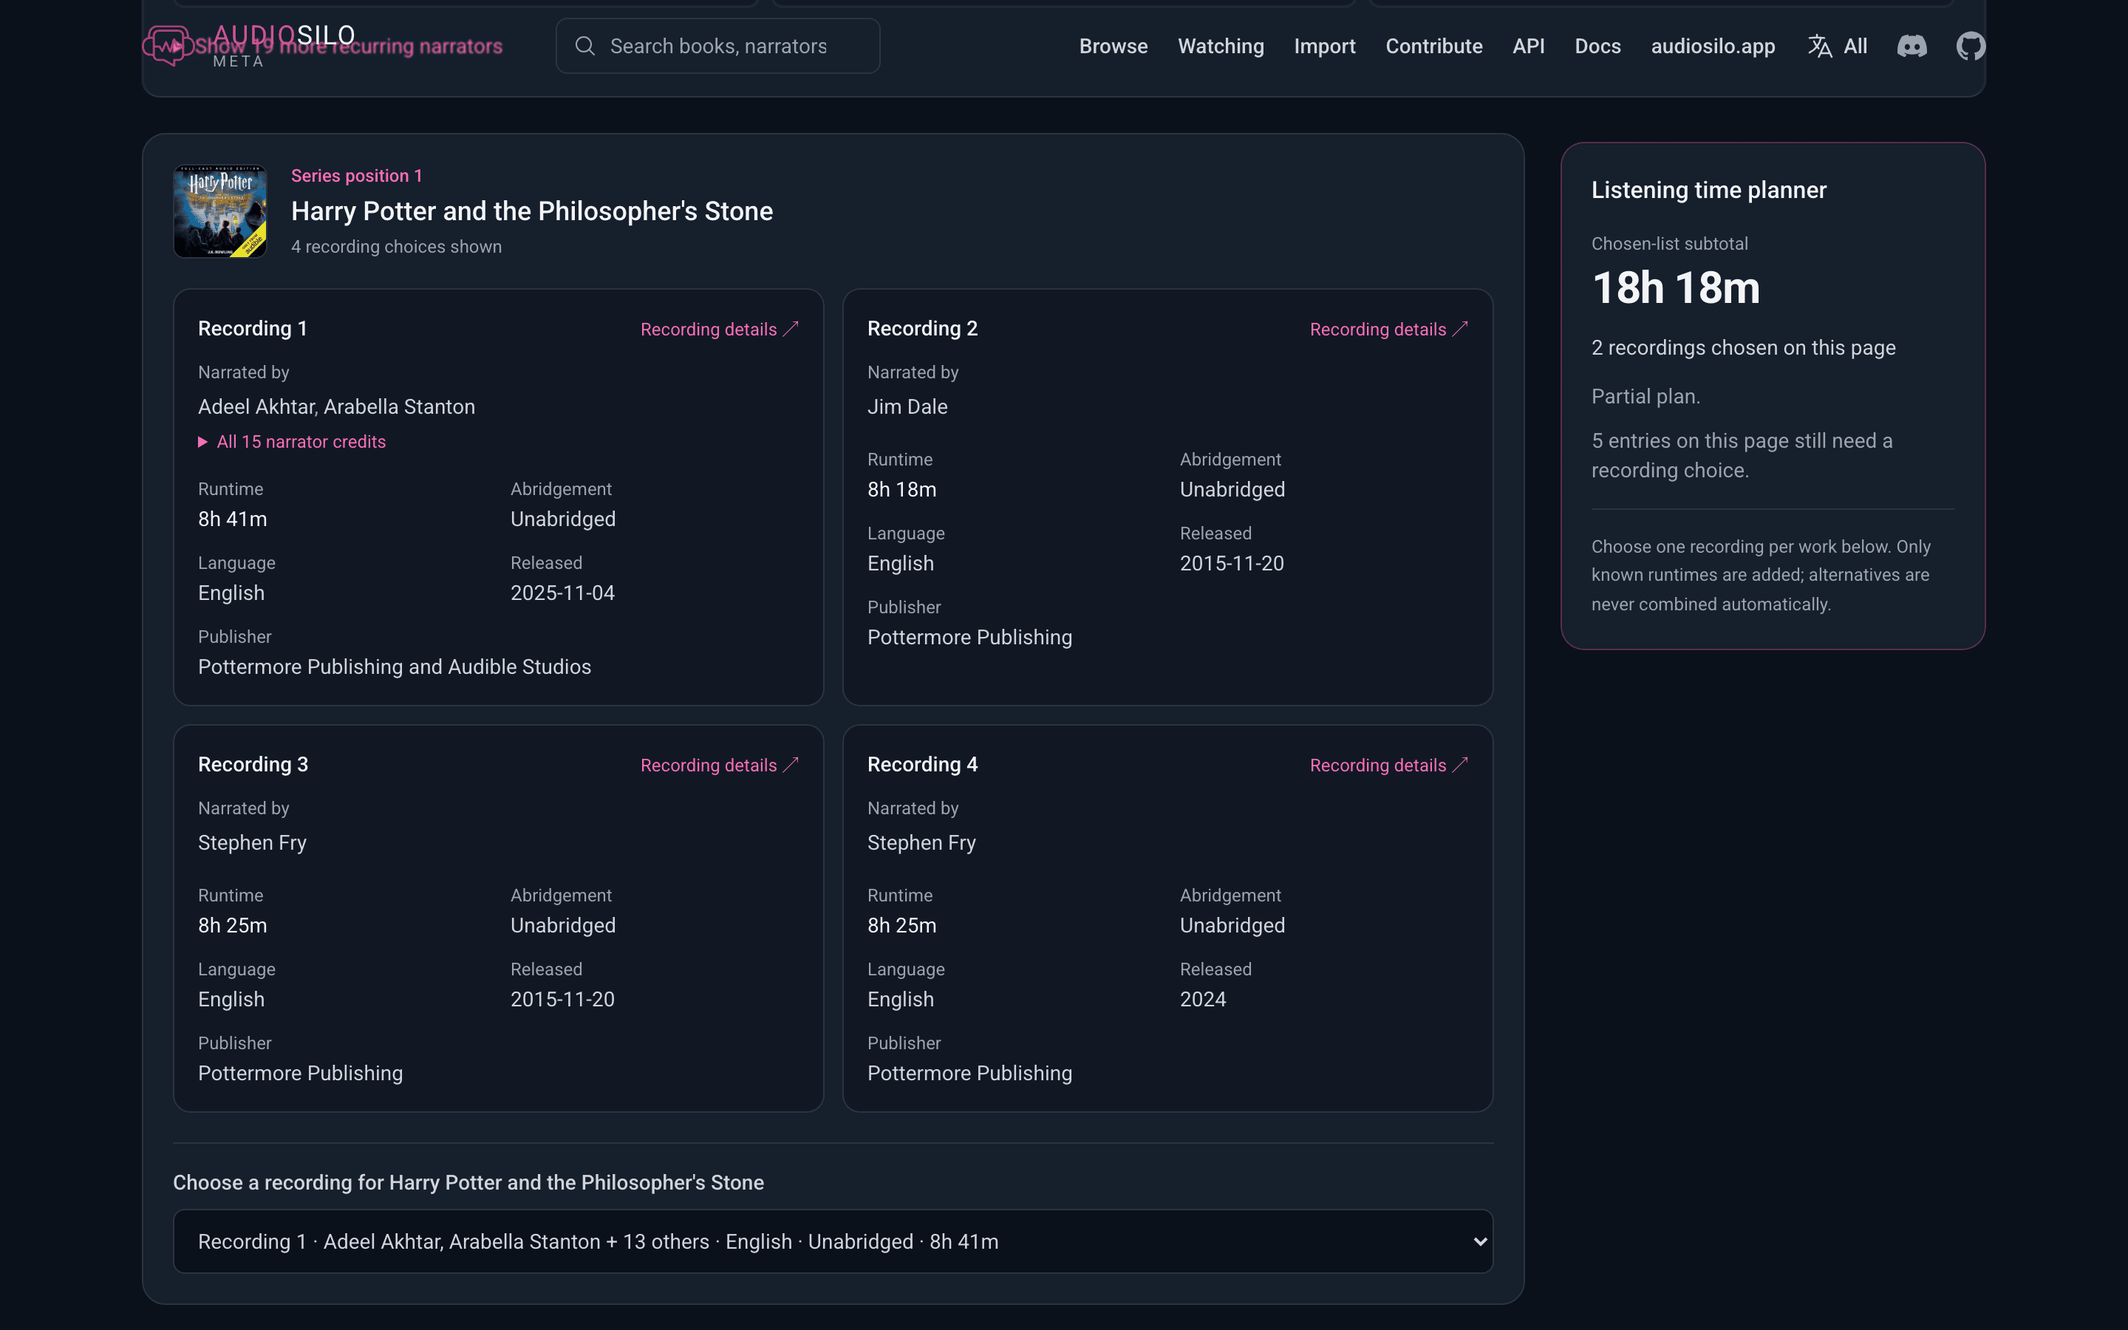
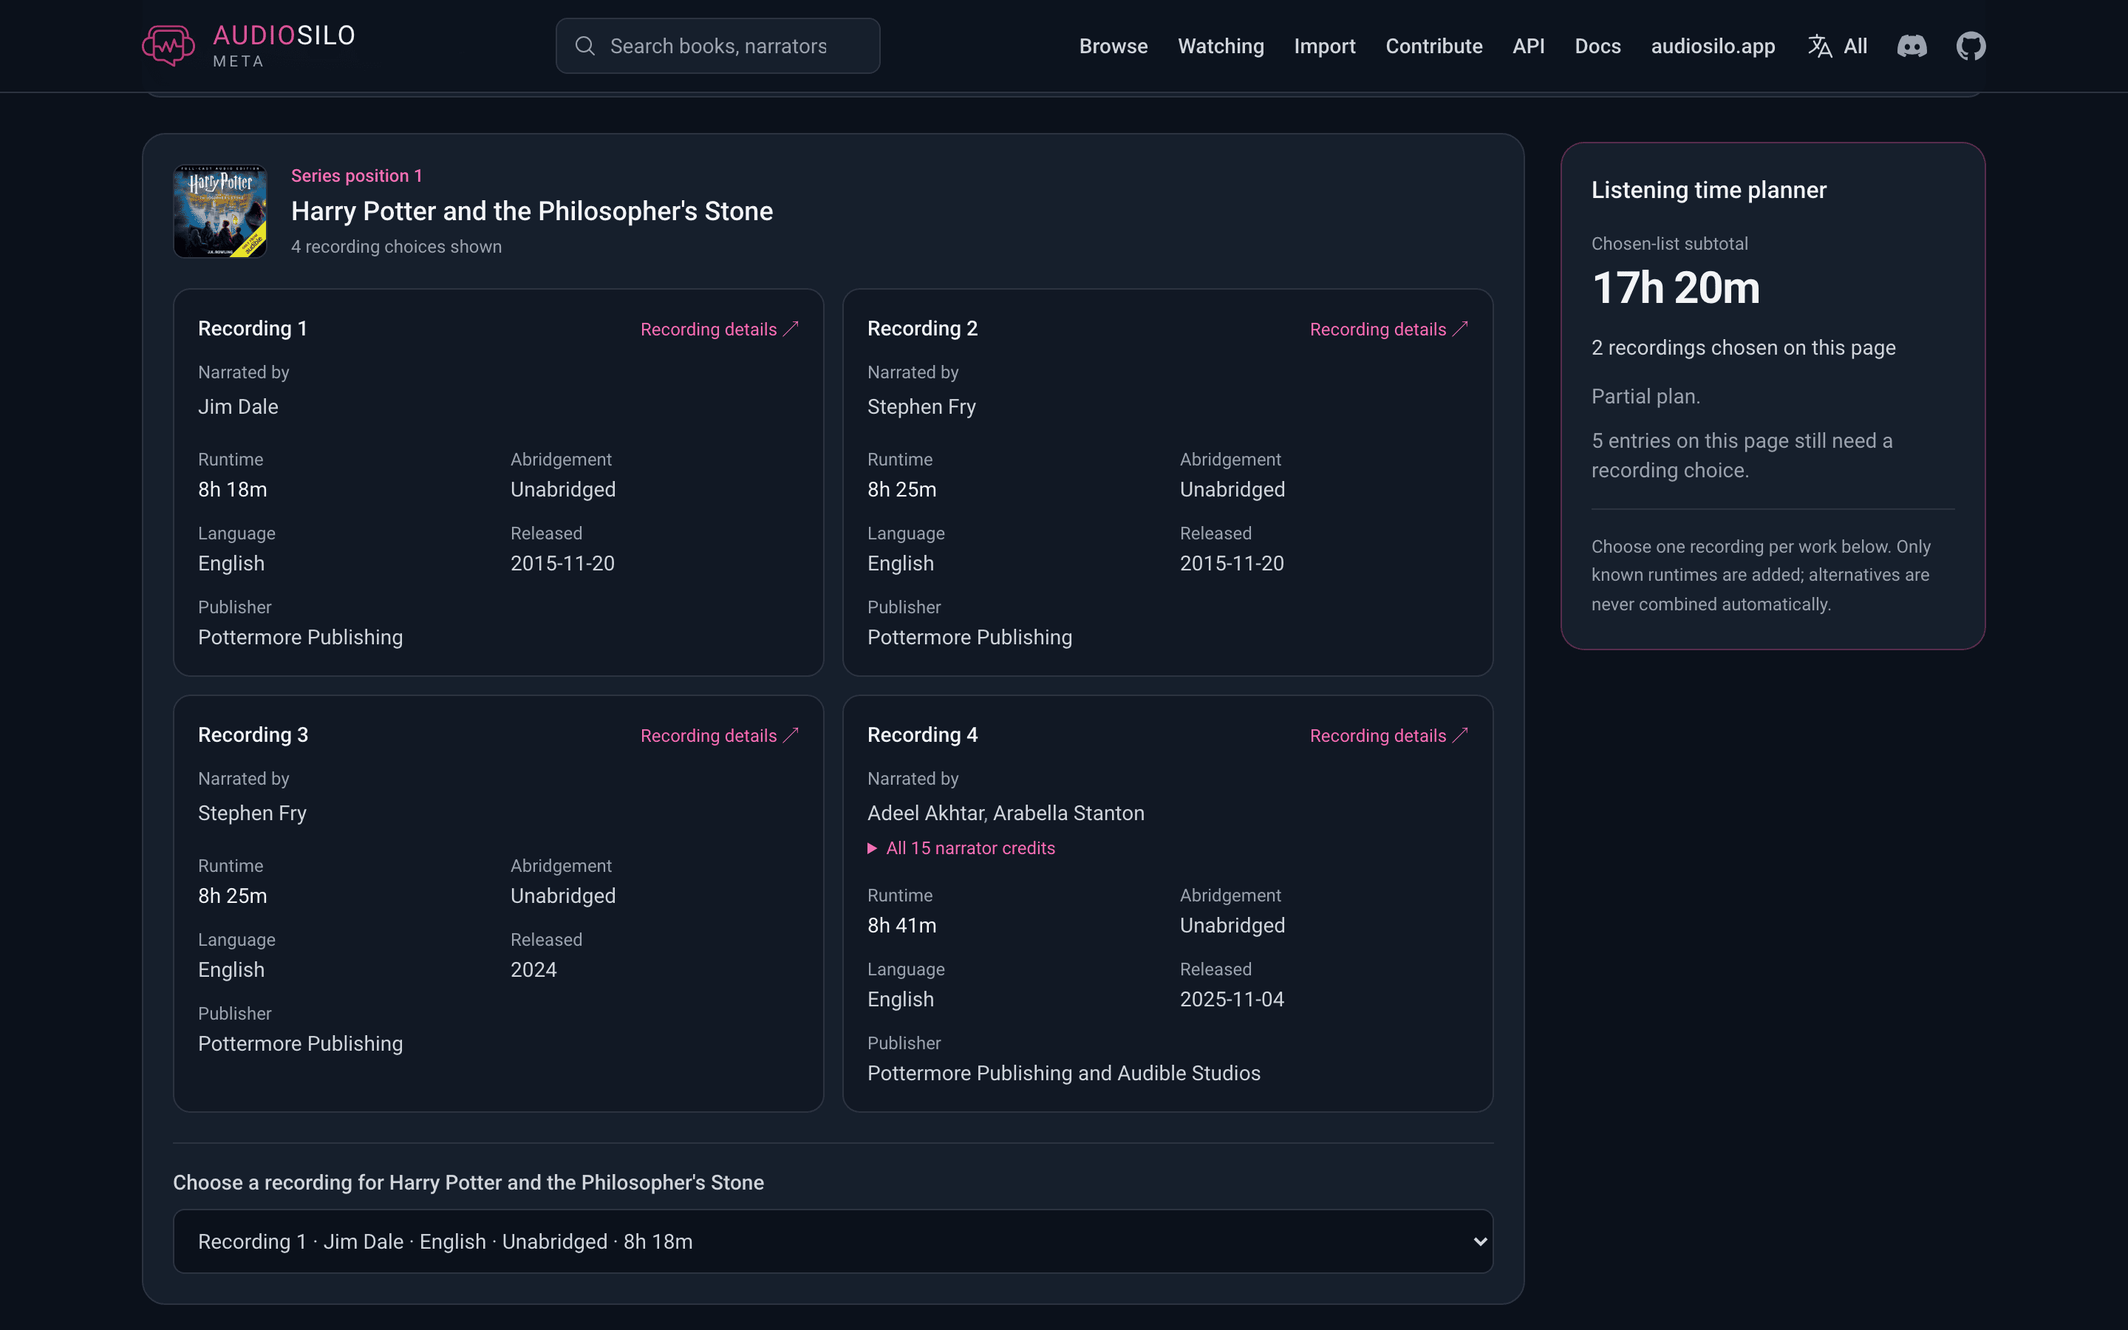
Document the dropped patch delta and the catalogue follow-ups (#330)
Pairs with KodeStar/audiosilo-meta#3108 and the catalogue follow-ups PR.

## The dropped patch delta (meta#3108)

- `docs-developers/meta/overview.md`: the asset contract lists the three
assets. `meta.sqlite.sha256` now verifies an artifact already on disk
(the cache volume), and a note says releases up to
`data-v2026.11.19-706bdbc-aa8c249` carried a zstd `--patch-from` delta
that nothing reads now. The `pkg/release` note no longer mentions a
delta path.
- `docs-developers/meta/api.md`, Serving and refresh: a new release is
adopted from the `--cache` directory when it holds it (the boot
section's digest rule, which it now links to), else downloaded in full
and verified against `meta.sqlite.gz.sha256`. "A rejected patch never
swaps" becomes "A rejected download never swaps". No other page
mentioned the delta.

## The catalogue follow-ups

User Guide, `docs-users/community/meta-site.md`:

- Person pages list in title order (within each series and language
group for narrated recordings). Later pages show only the narrated
recordings and link back to the first page for written and translated
books.
- The listening guide picks and orders recordings by narrator
continuity, then earliest release, with undated recordings after dated
ones in a tie. "Narrator continuity" is named as the page-only section
it is.
- Watching: **Not interested** (introduced beside **I have this** in the
steps) and **Show again** are documented (they were missing), the marks
[…]

diff --git a/docs-developers/meta/api.md b/docs-developers/meta/api.md
@@ -718,9 +718,14 @@ character value) is skipped rather than guessed at. So is a dateless work with n
 `added_at`.
 
 Items are sorted by `updated` **descending**: the release date, or the added-at date
-for a dateless work. Ties are broken deterministically by series name, the numeric
-start of the position string, the position string, and finally the item id. The
-list is capped at **200** items (`maxWatchFeedItems`).
+for a dateless work. Ties are broken deterministically by series name, the series
+slug, the numeric start of the position string, the position string, and finally
+the item id. The slug keeps the tied items of two watched series that share a
+name apart, each series' together and in order, rather than interleaving their
+members by position. The list is capped at **200** items (`maxWatchFeedItems`).
+The site's Watching page orders its own same-date ties on the same keys in the
+same place: series name, series slug, then position (`byNameThenPosition` in
+`site/src/lib/watch-flat.ts`, which compares names in locale order).
 
 ### Item identity
 
@@ -916,7 +921,9 @@ default rather than erroring.
 The window applies to `authored` and `narrated` **independently**. `authored_total`
 and `narrated_total` are the unpaged counts of each. A client must page against
 those totals rather than assume the arrays are complete, since a prolific narrator
-will exceed one page.
+will exceed one page. Every list is ordered by work title without regard to case
+(`COLLATE NOCASE`, so "apple" sorts before "Banana"), then by work id, and a
+recording list then by recording id.
 
 `translated` and `translated_total` (artifact `schema_version` 9) list the
 recordings that credit the person as their own **translator**. That is a LibriVox
@@ -961,6 +968,11 @@ omitted on an older artifact.
 
 `works` is sorted by the numeric start of each `position` string, so `"1-3.5"` sorts
 by 1, then by the raw position string and work id to break ties deterministically.
+This is the one series member order (`seriesMemberOrderSQL` in
+`pkg/query/queries.go`): the listening guide pages through it, the coverage gap
+list's `present` positions come back in it, and the watch feed's cross-series
+sort keys on the same position start.
+
 Paging here is **opt-in**. With no `?limit=`, the whole member list is
 returned and the echoed `limit` is `0`, because the player's series rail depends on
 getting the complete list. To window it, pass `?limit=` (clamped to a maximum of
@@ -989,9 +1001,21 @@ as on `series/{id}`, and `works_total` is the unpaged member count.
 Each `RecordingSummary` has `id` and `narrators[]`; `language`, `abridgement`,
 `runtime_min`, `release_date`, `publisher` and `chapter_count` are omitted when
 unstated or zero. Summaries contain no identifiers or chapter bodies. A work
-gets at most **five** alternatives, deterministically by recording id;
-`recordings_total` counts all its recordings and `recordings_limit` is `5`.
-An empty array means no recording is catalogued, not that none exists.
+gets at most **five** alternatives; `recordings_total` counts all its recordings
+and `recordings_limit` is `5`. An empty array means no recording is catalogued,
+not that none exists.
+
+The five are chosen, and listed, in one deterministic order
+(`listeningCandidatesSQL` in `pkg/query/catalogue.go`, also stated in
+`openapi.json`):
+
+1. **Narrator continuity**, most first: the most *other* volumes of this series
+   that any one of the recording's narrators also narrates, counted over the
+   whole series rather than the visible page. A narrator's credits outside the
+   series, and a second recording of the same work, do not count.
+2. **Release date**, earliest first. A recording that states none comes after
+   every dated one.
+3. **Recording id**, which makes the order total.
 
 ## `/api/v1/people/{id}/recordings?limit=&offset=&series=&lang=`
 
@@ -1007,7 +1031,8 @@ repeated credit on the same recording:
 
 `work` is a workCard and `recording` is the RecordingSummary above. `series[]`
 contains the work's memberships, primary orders before variants, and is empty
-for a standalone work. Rows sort by work title, work id and recording id.
+for a standalone work. Rows sort by work title without regard to case
+(`COLLATE NOCASE`), then work id and recording id.
 `total` counts matching recording credits before paging. A known person with
 no matching credits gets an empty array; an unknown person gets **404**
 `person not found`. Authorship and translation credits are on `people/{id}`.
@@ -1553,7 +1578,7 @@ chapter pages are Go-rendered only, with no payload:
 | `/works/{id}` | Every recording, comparison links to `#recording-{rid}`, and detailed cards |
 | `/works/{id}/characters`, `/works/{id}/recap` | Existing community guides. Spoiler bodies and aliases stay in the DOM inside closed native `details`, marked `data-nosnippet`; work tab panels stay mounted with `hidden` semantics |
 | `/series/{id}` | Up to 50 ordered works and their bounded listening-guide alternatives |
-| `/people/{id}` | Authorship/translation lists and 50 narrated recording credits per page |
+| `/people/{id}` | Page one: the written, narrated and translated lists and the first 50 narrated recording credits. A later page (`?page=N`): the next 50 recording credits only, with a link back to page one for those lists |
 | `/works/{id}/recordings/{rid}/chapters` | Up to 100 chapter titles, starts and durations for a validated recording |
 
 **Directory filters.** The five browse directories accept `q` (search within that
@@ -1606,6 +1631,11 @@ site URL, the document (which shard, or the index and whether it lists the stati
 sitemap) and the build revision. These are cache keys, not content-change dates;
 build stamping and per-entity revision tracking are
 [follow-up work](https://github.com/KodeStar/audiosilo-meta/issues/2927).
+`TestRendererVersionsTrackTheGoldens` guards both bumps: it pins each of
+`htmlRendererVersion` and `sitemapRendererVersion`, with a digest of its goldens
+(`internal/serve/testdata/golden/`), so a golden change fails until its pin is
+updated, and the failure names the constant to bump. A change to the test
+fixture alone updates the digest and keeps the version.
 
 **Sitemaps.** `/sitemap-index.xml` lists the static sitemap, when present, and the
 generated `/sitemaps/{family}-{shard}.xml` shards (up to 50,000 URLs each, in
@@ -1850,15 +1880,15 @@ webhook keep it current:
   [the overview](overview.md#release-artifacts)). It fetches conditionally
   (`If-None-Match` and 304) through `pkg/release`, the fetcher that mirror-mode
   AudioSilo servers use too.
-- **On a new release it first tries a `--patch-from` binary delta** against the
-  currently loaded artifact (zstd, `--long=31` window). It verifies the
-  reconstructed file byte for byte against `meta.sqlite.sha256` before installing
-  it. Whenever a patch is unavailable or fails, it falls back unconditionally to a
-  full `meta.sqlite.gz` download, verified against `meta.sqlite.gz.sha256`. The
-  first refresh after boot is always full.
+- **On a new release it first looks in the `--cache` directory**, adopting a
+  cached copy by the same digest rule as at [boot](#boot-and-degraded-start).
+  Otherwise it downloads `meta.sqlite.gz` in full and verifies it against
+  `meta.sqlite.gz.sha256`. It never fetches the zstd
+  delta that older releases carried (see
+  [the overview](overview.md#release-artifacts)).
 - **Either way it hot-swaps the pointer.** In-flight requests finish on the old
-  handle, which is closed after a grace delay. A rejected patch never swaps. A poll
-  failure only logs and retries, and never crashes the process.
+  handle, which is closed after a grace delay. A rejected download never swaps. A
+  poll failure only logs and retries, and never crashes the process.
 
 The startup refresh means a recreated production container reaches the newest
 release within seconds, rather than at the first `--interval` tick. Superseded

diff --git a/docs-users/community/meta-site.md b/docs-users/community/meta-site.md
@@ -41,7 +41,8 @@ changing either starts again at page one.
 - A **book page** lists every recording of the book, with narrators, length,
   release date, publisher, ASINs and ISBNs, and chapters.
 - A **series page** lists the books in reading order.
-- A **person page** lists everything an author or narrator is credited on.
+- A **person page** lists everything an author or narrator is credited on. Each
+  list, and each group of narrated recordings, is in alphabetical order by title.
 
 ![A book page with its recordings](/img/screenshots/meta/work.png)
 
@@ -69,19 +70,27 @@ five catalogued recordings per book; when there are more, **Compare every
 recording** opens the book page. **No recording catalogued** means the catalogue
 holds no recording of that book yet.
 
+The guide picks and orders those recordings by narrator first: a recording whose
+narrator reads the most other books across the whole series comes first. Among
+recordings level on that, the earliest released comes first, and one with no
+release date comes after the dated ones.
+
 Pick a recording for each book and the **Listening time planner** adds up their
 runtimes. The subtotal covers only the current page. The plan stays partial
 unless the whole series fits on that one page and every book on it has a pick
 with a known runtime, a position the planner can read, and no omnibus that
-overlaps another pick. Picks are forgotten when you leave the page. Narrator continuity
-also looks only at this page, so it doesn't promise one narrator for the whole
-series.
+overlaps another pick. Picks are forgotten when you leave the page. The
+**Narrator continuity** section also looks only at this page, so it doesn't
+promise one narrator for the whole series.
 
 ![A series listening guide with recording choices](/img/screenshots/meta/series-listening-guide.png)
 
 On a person page, **Narrated recordings** lists each recording they narrated, so
 two readings of one book are two entries, each linking to that recording. A page
 shows 50, grouped by series and language; a group covers only that page.
+
+Later pages show only these recordings. The books the person wrote or translated
+stay on the first page, and a later page links back to it.
 
 ![A narrator's recording credits grouped by series and language](/img/screenshots/meta/person-recordings.png)
 
@@ -136,16 +145,23 @@ identifiers (ASINs and ISBNs), and author names for books that don't match.
 Follow a series to see its new and upcoming books:
 
 1. Open the series page and press **Watch this series**.
-2. Tick **I have this** on each book you own. **Mark this page as owned** ticks
-   the books on the current page; **Clear ownership for this series** clears the
-   series' marks on every page.
+2. Tick **I have this** on each book you own, or press **Not interested** on a
+   book you don't plan to read. **Mark this page as owned** ticks the books on
+   the current page; **Clear ownership for this series** clears the series'
+   marks on every page.
 3. Open the [Watching page](https://meta.audiosilo.app/watching) (**Watching**
    in the header).
 
 The Watching page lists, for each series, the books you don't have yet:
 **Available** ones, and **Preorder** ones with a future release date. A **New**
 badge marks what you haven't seen before. **Hide** takes a series off the page
-but keeps it; **Unwatch** forgets it.
+but keeps it; **Unwatch** forgets it. Books out on the same day are listed series
+by series, in reading order, even when two of your series share a name.
+
+A book marked **Not interested** isn't counted as owned. The Watching page folds
+it into a **skipped** list at the foot of its series, and **Show again** brings
+it back. It still appears in your [feed](#getting-notified). On a phone, both
+buttons sit on their own line under the book's title.
 
 ![A series page with the watch toggle and ownership marks](/img/screenshots/meta/series-watching.png)
 
@@ -219,7 +235,11 @@ Bridge can file characters, recaps and corrections for you. See
 
 The [contribute page](https://meta.audiosilo.app/contribute) shows where help is
 most needed. Its **guided builder** walks you through writing characters and
-recaps for a book you know well.
+recaps for a book you know well. When the previous book in the series already
+has characters, the builder offers **Start from that cast**: each character is
+copied with its description cleared and its reveal reset, ready to check for
+this book. An omnibus that includes this book doesn't count as the previous book,
+because its characters describe later books.
 
 ![The contribute coverage browser](/img/screenshots/meta/contribute.png)
 

diff --git a/docs-developers/meta/overview.md b/docs-developers/meta/overview.md
@@ -173,7 +173,7 @@ Downstream tests run against true metaserve behaviour.
   `meta.sqlite.gz.sha256`, fsyncs it and renames it into place. The download is
   bounded, stall-guarded and only from allowlisted GitHub hosts.
 
-metaserve's poller uses it too, and adds its delta and cache paths on top.
+metaserve's poller uses it too, and adds its cache path on top.
 
 ### `pkg/release/releasetest`
 
@@ -273,10 +273,15 @@ The asset contract:
 
 - `meta.sqlite.gz` + `meta.sqlite.gz.sha256` - the universal anchor every
   consumer verifies against.
-- `meta.sqlite.sha256` - the raw-file digest, used to verify a patched artifact.
-- `meta.sqlite.patch.from-<PREV_TAG>.zst` - a **best-effort** zstd `--patch-from`
-  binary delta against the previous data release (`--long=31`; a stock zstd CLI
-  consumer must also pass `--long=31` at decompression time).
+- `meta.sqlite.sha256` - the raw-file digest, used to verify an artifact already
+  on disk (metaserve's cache volume).
+
+Releases up to `data-v2026.11.19-706bdbc-aa8c249` also carried a zstd
+`--patch-from` delta, `meta.sqlite.patch.from-<PREV_TAG>.zst`. Later that day the
+artifact passed 2 GB, which the zstd CLI refuses as a patch base (metaserve
+declined any base over 1 GiB anyway), so releases stopped carrying it and the
+workflow no longer builds it. Nothing reads it now, and a release that still
+carries one is adopted through its `meta.sqlite.gz`.
 
 The repo also cuts code and image `v*` releases with no data assets. Consumers
 therefore select the newest **data** release by asset presence: the non-draft,
@@ -374,6 +379,10 @@ rows, never a complete series. A plan is complete only with an explicit choice, 
 known runtime and no overlapping position for every catalogued entry, and a
 subtotal never sums alternatives. Neither a catalogued recording nor a retailer
 link establishes availability or production format.
+
+Which five recordings the guide offers per work is the API's choice, and that
+choice counts narrator continuity over the whole series (see
+[the listening guide](api.md#apiv1seriesidlistening-guidelimitoffset)).
 
 ## The site's watchlist is client-side only
 

diff --git a/docs-developers/meta/contributing-data.md b/docs-developers/meta/contributing-data.md
@@ -1700,7 +1700,14 @@ User Guide's [community metadata site page](/users/community/meta-site).
   exactly what is new before submitting.
 - **[`/build`](https://meta.audiosilo.app/build)** is a guided builder that walks a
   contributor through writing the characters or recaps sidecar for a work already
-  in the catalogue.
+  in the catalogue. For a characters sidecar it offers to seed the cast from the
+  previous book of the work's first series, when that book has a characters
+  sidecar. The previous book is the nearest earlier member in the order
+  `series/{id}` returns (`castSeedSource` in `site/src/lib/worknav.ts`), skipping
+  an omnibus whose span reaches this book ("1-3" before "2"), since its cast
+  describes later books. Each seeded character
+  keeps its id, name, aliases, role and Wikidata link, with its description cleared
+  and its reveal reset to 0.
 
 ## Authoring the expressive layer
 
